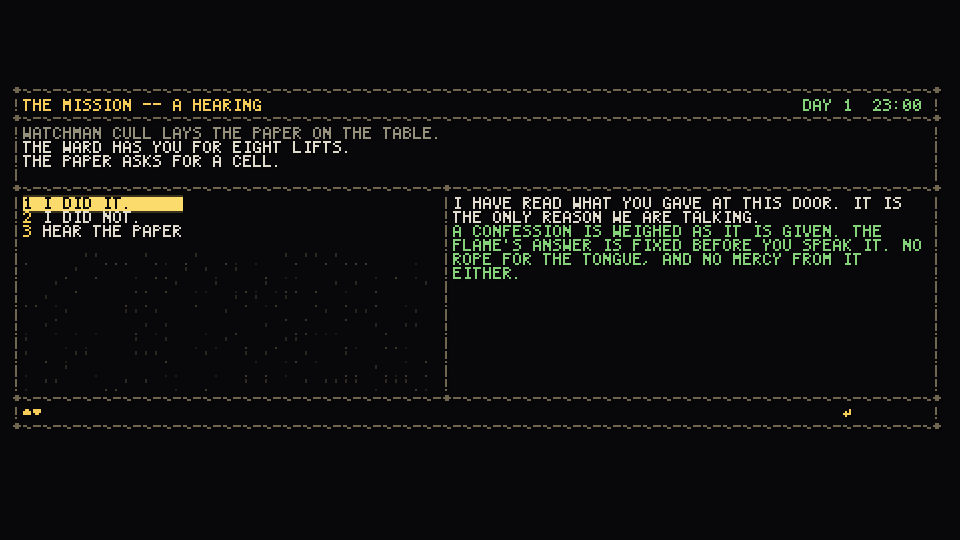
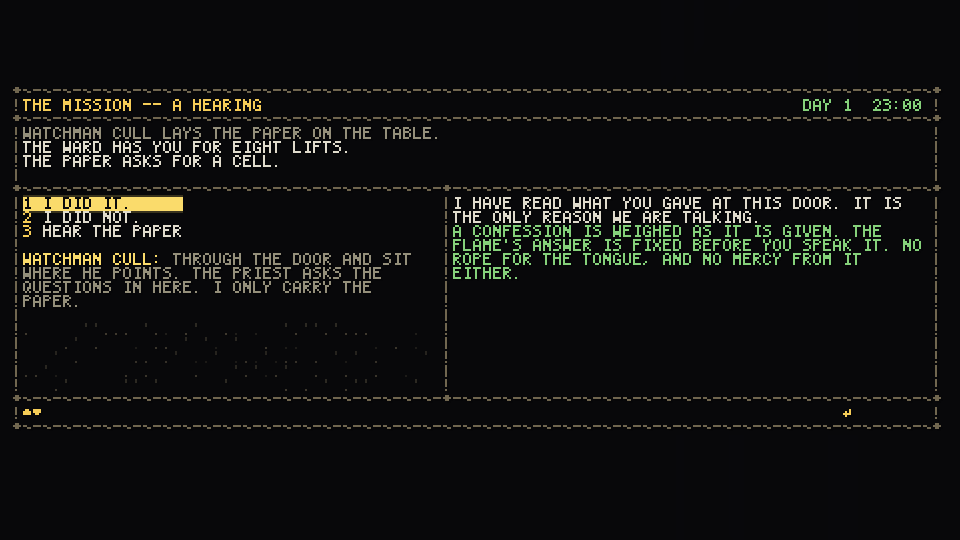
wip(justice/barks): --court=wanted stops on the tag; the frames of every ending at 960x540 (wanted pending the gate), the creation screen A NEW MAN opens

Changed region(s): [[0.0, 0.4741, 0.4062, 0.563]]

diff --git a/native/src/render/session.cpp b/native/src/render/session.cpp
@@ -10821,7 +10821,9 @@ std::string gWatchHaltNote;
 /// before the Watch drinks, the paper with blood on it, taken to a rope
 /// hearing, THE ROPE passed and the drop taken, the plate with the end rows
 /// under it (five); "newman" takes the rope's own first row after the plate,
-/// the answer main() reads to open the creation window again (six).
+/// the answer main() reads to open the creation window again (six). "wanted"
+/// stops on the first beat: the tag on the HUD, paper out, nobody's hand on
+/// you yet (one).
 ///
 /// BARKS & GATE LANE. A line before this one may leave the clock at eight
 /// (--flame, the Mission's own hour: what you gave at the door is the only
@@ -10836,6 +10838,9 @@ constexpr std::int32_t kCourtRopeBeats = 5;
 constexpr std::int32_t kCourtNewManBeats = 6;
 
 [[nodiscard]] std::int32_t courtBeatsFor(const std::string& ending) {
+    if (ending == "wanted") {
+        return 1;
+    }
     if (ending == "paper") {
         return kCourtPaperBeats;
     }
@@ -11074,6 +11079,10 @@ std::string gCourtNote;
             return landed;
         }
         ++landed;  // 1: WANTED on the row, off real lifts
+        if (ending == "wanted") {
+            // THE TAG, photographed: paper out, nobody's hand on you yet.
+            return landed;
+        }
     }
 
     // TAKEN AT REACH, WITH PAPER. The arrest opens the hearing; the step

diff --git a/native/tests/test_scripted_lines.cpp b/native/tests/test_scripted_lines.cpp
@@ -170,6 +170,20 @@ TEST_CASE("--court=rope: a killing before the Watch drinks, taken to a rope hear
     CHECK(played.summary.find("judgment=the rope") != std::string::npos);
 }
 
+TEST_CASE("--court=wanted stops on the tag: paper out off real lifts, nobody's hand on you yet") {
+    render::SmokeRunConfig run;
+    run.court = true;
+    run.courtEnd = "wanted";
+    const render::SmokeRunResult played = play(run);
+    INFO(played.summary);
+    CHECK(played.ok);
+    CHECK_FALSE(played.scriptFellShort());
+    CHECK(played.courtBeats == 1);
+    CHECK(played.summary.find("page=down") != std::string::npos);
+    CHECK(played.summary.find("hearing=none") != std::string::npos);
+    CHECK(played.summary.find("heat=6") != std::string::npos);  // past kWarrantAt
+}
+
 TEST_CASE("--court=deny pleads I DID NOT and the block carries the priest's doubt") {
     // BARKS & GATE LANE. The other plea, through the same row grammar.
     render::SmokeRunConfig run;

diff --git a/native/src/client/main.cpp b/native/src/client/main.cpp
@@ -912,7 +912,7 @@ void print_usage() {
         "                       and stand there: the halt, the arrest at reach,\n"
         "                       the street. WHERE is halt or street\n"
         "  --court[=WHERE]      lift in Cull's sight until WANTED, be taken to the\n"
-        "                       Mission's bench. WHERE is page, paper, plea, deny,\n"
+        "                       Mission's bench. WHERE is wanted, page, paper, plea, deny,\n"
         "                       serve, rope or newman (--flame first to have what\n"
         "                       you gave at the door weighed)\n"
         "  --nemesis[=WHERE]    lose a fist fight to a named laborer three\n"

diff --git a/native/include/granadad/render/session.hpp b/native/include/granadad/render/session.hpp
@@ -3128,7 +3128,8 @@ struct SmokeRunConfig {
     /// the row), "rope" (a killing at eight before the Watch drinks, the wait
     /// to ten, taken to a rope hearing, THE ROPE, the drop, the plate with A
     /// NEW MAN / LEAVE under it) or "newman" (the rope, then A NEW MAN taken
-    /// by its row -- the answer main() loops on). With `flame` set first the
+    /// by its row -- the answer main() loops on) or "wanted" (the tag alone,
+    /// the first beat, nobody's hand on you). With `flame` set first the
     /// court waits for Cull through the wait page and THE DOOR is weighed.
     bool court = false;
     std::string courtEnd = "page";
